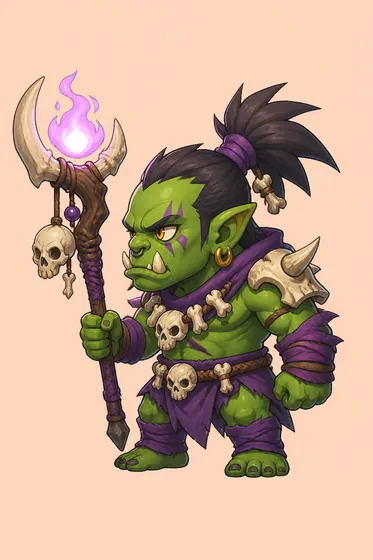
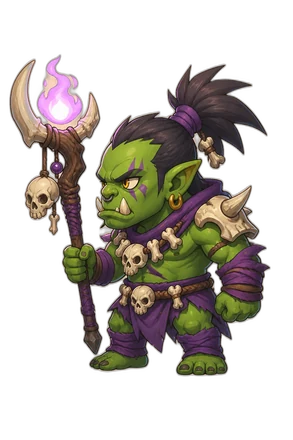
Use transparent sprites and AFK-style formation slots
Cut out character backgrounds and place units as 2 front, 1 mid, 2 back on each side without overlap, at smaller size.

diff --git a/js/game.js b/js/game.js
@@ -5,21 +5,24 @@
   const AFK_GOLD_PER_MIN = 2;
 
   const HERO_TEMPLATES = [
-    { id: "lumi", name: "Lumi", img: "assets/heroes/hero-lumi.webp?v=3", atk: 12, maxHp: 110 },
-    { id: "sora", name: "Sora", img: "assets/heroes/hero-sora.webp?v=3", atk: 11, maxHp: 105 },
-    { id: "mika", name: "Mika", img: "assets/heroes/hero-mika.webp?v=3", atk: 14, maxHp: 100 },
-    { id: "hana", name: "Hana", img: "assets/heroes/hero-hana.webp?v=3", atk: 10, maxHp: 120 },
-    { id: "nori", name: "Nori", img: "assets/heroes/hero-nori.webp?v=3", atk: 13, maxHp: 95 },
+    { id: "lumi", name: "Lumi", img: "assets/heroes/hero-lumi.webp?v=4", atk: 12, maxHp: 110 },
+    { id: "sora", name: "Sora", img: "assets/heroes/hero-sora.webp?v=4", atk: 11, maxHp: 105 },
+    { id: "mika", name: "Mika", img: "assets/heroes/hero-mika.webp?v=4", atk: 14, maxHp: 100 },
+    { id: "hana", name: "Hana", img: "assets/heroes/hero-hana.webp?v=4", atk: 10, maxHp: 120 },
+    { id: "nori", name: "Nori", img: "assets/heroes/hero-nori.webp?v=4", atk: 13, maxHp: 95 },
   ];
 
   const ORC_POOL = [
-    { name: "Knuffork", img: "assets/enemies/orc-grunt.webp?v=3", atk: 5, hpMul: 1 },
-    { name: "Zahnork", img: "assets/enemies/orc-grunt.webp?v=3", atk: 6, hpMul: 1.05 },
-    { name: "Keulenork", img: "assets/enemies/orc-brute.webp?v=3", atk: 7, hpMul: 1.2 },
-    { name: "Moosork", img: "assets/enemies/orc-brute.webp?v=3", atk: 7, hpMul: 1.25 },
-    { name: "Runenork", img: "assets/enemies/orc-shaman.webp?v=3", atk: 8, hpMul: 1.1 },
-    { name: "Kriegsork", img: "assets/enemies/orc-warrior.webp?v=3", atk: 9, hpMul: 1.3 },
+    { name: "Knuffork", img: "assets/enemies/orc-grunt.webp?v=4", atk: 5, hpMul: 1 },
+    { name: "Zahnork", img: "assets/enemies/orc-grunt.webp?v=4", atk: 6, hpMul: 1.05 },
+    { name: "Keulenork", img: "assets/enemies/orc-brute.webp?v=4", atk: 7, hpMul: 1.2 },
+    { name: "Moosork", img: "assets/enemies/orc-brute.webp?v=4", atk: 7, hpMul: 1.25 },
+    { name: "Runenork", img: "assets/enemies/orc-shaman.webp?v=4", atk: 8, hpMul: 1.1 },
+    { name: "Kriegsork", img: "assets/enemies/orc-warrior.webp?v=4", atk: 9, hpMul: 1.3 },
   ];
+
+  // 2 vorne, 1 mittig, 2 hinten
+  const FORMATION_SLOTS = ["front-a", "front-b", "mid", "back-a", "back-b"];
 
   const el = {
     screens: {
@@ -113,7 +116,7 @@
       return [
         {
           name: `Häuptling Raum ${room}`,
-          img: "assets/enemies/orc-boss.webp?v=3",
+          img: "assets/enemies/orc-boss.webp?v=4",
           atk: scaleForRoom(14, room),
           maxHp: hp,
           hp,
@@ -146,11 +149,13 @@
     return list.find((u) => !u.dead && u.hp > 0) || null;
   }
 
-  function unitNode(unit, side) {
+  function unitNode(unit, side, slot) {
     const wrap = document.createElement("div");
-    wrap.className = `unit${unit.boss ? " boss-unit" : ""}${unit.dead ? " dead" : ""}`;
+    const slotClass = unit.boss ? "boss-unit" : `slot-${slot}`;
+    wrap.className = `unit ${slotClass}${unit.dead ? " dead" : ""}`;
     wrap.dataset.id = unit.id || unit.name;
     wrap.dataset.side = side;
+    if (slot) wrap.dataset.slot = slot;
     wrap.innerHTML = `
       <img class="unit-art" src="${unit.img}" alt="" />
       <p class="unit-name">${unit.name}</p>
@@ -164,8 +169,14 @@
     el.enemyLane.innerHTML = "";
     const boss = state.enemies.length === 1 && state.enemies[0].boss;
     el.enemyLane.classList.toggle("boss-mode", !!boss);
-    state.heroes.forEach((h) => el.heroLane.appendChild(unitNode(h, "heroes")));
-    state.enemies.forEach((e) => el.enemyLane.appendChild(unitNode(e, "foes")));
+    state.heroes.forEach((h, i) => {
+      const slot = FORMATION_SLOTS[i] || FORMATION_SLOTS[FORMATION_SLOTS.length - 1];
+      el.heroLane.appendChild(unitNode(h, "heroes", slot));
+    });
+    state.enemies.forEach((e, i) => {
+      const slot = boss ? "mid" : FORMATION_SLOTS[i] || FORMATION_SLOTS[FORMATION_SLOTS.length - 1];
+      el.enemyLane.appendChild(unitNode(e, "foes", slot));
+    });
   }
 
   function findUnitEl(side, index) {

diff --git a/css/style.css b/css/style.css
@@ -293,56 +293,101 @@ body {
 
 .lane {
   position: absolute;
-  top: 0.35rem;
-  bottom: 0.35rem;
-  width: 42%;
-  display: grid;
-  grid-template-rows: repeat(5, minmax(0, 1fr));
-  align-items: stretch;
-  gap: 0.15rem;
+  top: 0;
+  bottom: 0;
+  width: 46%;
   z-index: 1;
-  padding: 0 0.2rem;
+  pointer-events: none;
 }
 .lane.heroes {
-  left: 0.2rem;
-  justify-items: end;
+  left: 0.5%;
 }
 .lane.foes {
-  right: 0.2rem;
-  justify-items: start;
+  right: 0.5%;
 }
-.lane.foes.boss-mode {
-  grid-template-rows: 1fr;
-  align-items: center;
-  justify-items: center;
+.lane.foes.boss-mode .unit:not(.boss-unit) {
+  display: none;
 }
 
 .unit {
-  position: relative;
-  width: 100%;
-  max-width: 150px;
-  height: 100%;
-  min-height: 0;
-  display: grid;
-  grid-template-rows: 1fr auto auto;
-  align-items: end;
-  justify-items: center;
-  gap: 0.05rem;
+  position: absolute;
+  width: clamp(52px, 12.5vw, 92px);
+  display: flex;
+  flex-direction: column;
+  align-items: center;
+  gap: 0.12rem;
+  pointer-events: auto;
   transition: filter 0.18s ease, opacity 0.2s ease;
 }
-.lane.heroes .unit {
-  max-width: min(22vw, 150px);
+
+/* Heroes: 2 front (near path), 1 mid, 2 back (near edge) */
+.heroes .slot-back-a {
+  left: 2%;
+  top: 6%;
+  z-index: 1;
 }
-.lane.foes .unit {
-  max-width: min(22vw, 150px);
+.heroes .slot-back-b {
+  left: 2%;
+  top: 58%;
+  z-index: 1;
 }
+.heroes .slot-mid {
+  left: 28%;
+  top: 32%;
+  z-index: 2;
+}
+.heroes .slot-front-a {
+  left: 54%;
+  top: 10%;
+  z-index: 3;
+}
+.heroes .slot-front-b {
+  left: 54%;
+  top: 54%;
+  z-index: 3;
+}
+
+/* Foes mirrored */
+.foes .slot-back-a {
+  right: 2%;
+  top: 6%;
+  z-index: 1;
+}
+.foes .slot-back-b {
+  right: 2%;
+  top: 58%;
+  z-index: 1;
+}
+.foes .slot-mid {
+  right: 28%;
+  top: 32%;
+  z-index: 2;
+}
+.foes .slot-front-a {
+  right: 54%;
+  top: 10%;
+  z-index: 3;
+}
+.foes .slot-front-b {
+  right: 54%;
+  top: 54%;
+  z-index: 3;
+}
+
 .unit.boss-unit {
-  max-width: min(34vw, 210px);
-  height: min(78%, 100%);
+  width: clamp(88px, 20vw, 140px);
+  left: 50% !important;
+  right: auto !important;
+  top: 50% !important;
+  transform: translate(-50%, -50%);
+  z-index: 4;
+}
+.foes.boss-mode .unit.boss-unit {
+  /* keep centered in foe lane */
 }
 
 .unit.dead {
-  opacity: 0.32;
+  opacity: 0.3;
   filter: grayscale(0.75);
 }
 
@@ -357,13 +402,13 @@ body {
 }
 
 .unit-art {
-  width: auto;
-  height: 100%;
-  max-width: 100%;
-  max-height: 100%;
+  width: 100%;
+  height: auto;
+  aspect-ratio: 3 / 4;
   object-fit: contain;
   object-position: bottom center;
-  filter: drop-shadow(0 5px 7px rgba(47, 36, 56, 0.28));
+  background: transparent;
+  filter: drop-shadow(0 4px 6px rgba(47, 36, 56, 0.35));
   pointer-events: none;
   user-select: none;
 }
@@ -371,10 +416,10 @@ body {
 .unit-name {
   margin: 0;
   font-family: var(--font-display);
-  font-size: clamp(0.55rem, 1.6vh, 0.75rem);
+  font-size: clamp(0.55rem, 1.5vh, 0.72rem);
   font-weight: 600;
   line-height: 1;
-  text-shadow: 0 1px 0 rgba(255, 247, 239, 0.75);
+  text-shadow: 0 1px 0 rgba(255, 247, 239, 0.8);
   max-width: 100%;
   overflow: hidden;
   text-overflow: ellipsis;
@@ -382,7 +427,7 @@ body {
 }
 
 .unit-hp {
-  width: 85%;
+  width: 90%;
   height: 5px;
   background: rgba(47, 36, 56, 0.22);
   border-radius: 999px;
@@ -696,6 +741,9 @@ body {
 
 /* Very short landscape phones */
 @media (orientation: landscape) and (max-height: 420px) {
+  .unit {
+    width: clamp(44px, 11vw, 72px);
+  }
   .unit-name {
     display: none;
   }

diff --git a/index.html b/index.html
@@ -65,7 +65,7 @@
       </header>
       <div class="side-layout">
         <div class="place-hero">
-          <img class="thumb" src="assets/heroes/hero-lumi.webp?v=3" alt="" />
+          <img class="thumb" src="assets/heroes/hero-lumi.webp?v=4" alt="" />
           <p>Riskanter Kampf gegen einen Aren-Ork. Mehr Gold bei Sieg.</p>
         </div>
         <div class="arena-panel">
@@ -88,7 +88,7 @@
       </header>
       <div class="side-layout">
         <div class="shop-banner">
-          <img class="thumb" src="assets/heroes/hero-lumi.webp?v=3" alt="" />
+          <img class="thumb" src="assets/heroes/hero-lumi.webp?v=4" alt="" />
           <div>
             <p class="shop-gold">Gold: <strong id="gold-shop">0</strong></p>
             <p class="shop-note">Stärke dein ganzes Team.</p>
